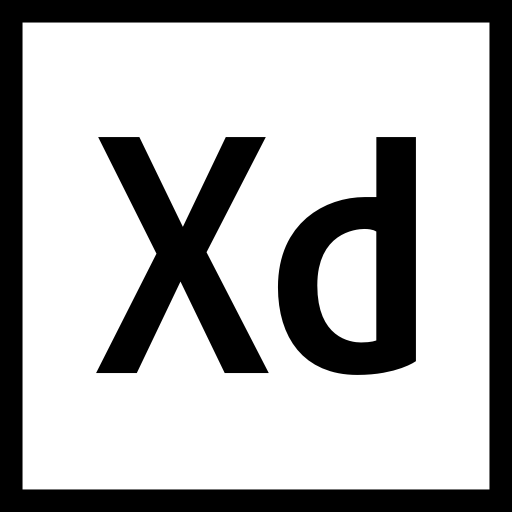
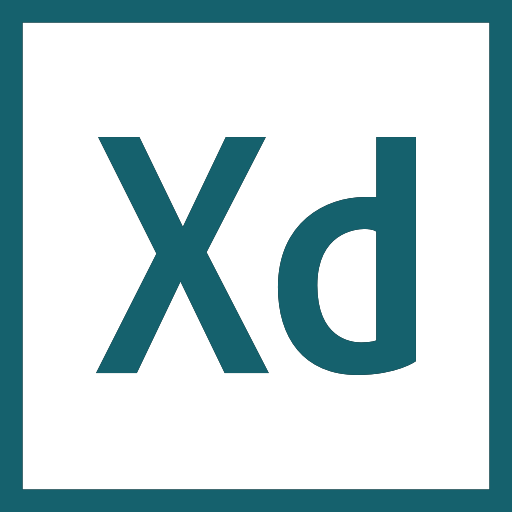
adding general color pallete

diff --git a/css/style.css b/css/style.css
@@ -3,13 +3,20 @@
     padding: 0;
     box-sizing: border-box;
 }
+:root{
+    --white: #fff;
+    --blue: #99c1b9;
+    --blue-shadow: rgba(156,156,156,0.55);
+    --blue-dark: #15616d;
+    --blue-hover: #99c1b9;
+    --orange-light: #f2d0a9;
+}
+
 body{
     display: block;
     overflow-x: hidden;
 }
 .container{
-    /* max-width: 1000px; */
-    /* width: 100%; */
     display: flex;
     flex-direction: column;
 }
@@ -17,10 +24,11 @@ body{
 /* header ------------------------------------------ --> */
 
 header{
-    padding: 20px;
+    padding: 15px;
     width: 100vw;
-    background-color: #99c1b9;
-    box-shadow: 0px 13px 17px -8px rgba(156,156,156,0.55);
+    /* background-color: #99c1b9; */
+    background-color: #ddb995a9;
+    box-shadow: 0px 13px 17px -8px rgba(255, 214, 187, 0.55);
     position: fixed;
 }
 .box-nav{
@@ -73,15 +81,10 @@ main{
     justify-content: center;
     align-items: center;
 }
-/* .home-greet, .home-figure{
-    
-} */
 .home-greet, .home-figure{
-    /* margin-top: 50px; */
     /* width: 400px; */
     max-width: 60vw;
     height: 300px;
-    /* background-color: burlywood; */
     font-family: 'Josefin Sans', sans-serif;
     font-size: 1rem;
     padding: 10px;
@@ -94,10 +97,10 @@ main{
     font-size: 1rem;
 }
 .home-greet h1{
-    font-size: 3rem;
+    font-size: 3em;
 }
 .home-greet p{
-    font-size: 1rem;
+    font-size: 1em;
 }
 .button-what-i-do{
     width: 120px;
@@ -105,8 +108,8 @@ main{
     margin-top: 10px;
     border: none;
     border-radius: 2px;
-    background-color: #f2d0a9;
-    color: #335d6b;
+    background-color: var(--orange-light);
+    color: #15616d;
     font-weight: bold;
 }
 .button-what-i-do:hover{
@@ -115,48 +118,46 @@ main{
     background-color: #99c1b9;
 }
 
-
 /* main - skills ----------------------------------------- --> */
 
 .skills{
-    width: 100vw;
-    height: 150vh;
-    background-color: rgb(201, 201, 201);
+    background-color: var(--white);
     display: flex;
-    flex-flow: column wrap;
     justify-content: center;
     align-items: center;
 }
 .skills-container{
     width: 80%;
     height: 100%;
-    background-color: rgb(131, 131, 131);
+    /* background-color: #f4f4f4; */
     display: flex;
     flex-flow: column;
     justify-content: center;
     align-items: center;
 }
 .skills-text{
-    width: 40%;
-    margin: auto;
-    margin-top: 10%;
-    background-color: rgb(211, 211, 211);
+    width: 50%;
+    text-align: center;
+    margin: 30px 0;
+    background-color: var(--white);
+    color: var(--blue-dark);
     text-align: center;
     font-family: 'Josefin Sans', sans-serif;
-    font-size: 1rem;
-}
-.skills-text h2{
     font-size: 2rem;
 }
+.skills-text h2{
+    font-size: 1em;
+}
 .skills-text p{
-    font-size: 1rem;
+    font-size: 0.6em;
     margin-top: 10%;
 }
 .skills-boxes{
     width: 65%;
-    height: auto;;
-    background-color: rgb(110, 110, 110);
-    margin-bottom: 10%;
+    /* width: 650px; */
+    height: auto;
+    background-color: var(--orange-light);
+    margin-bottom: 50px;
     display: flex;
     flex-flow: row wrap;
     justify-content: space-around;
@@ -164,17 +165,24 @@ main{
 .box-skill{
     width: 200px;
     height: 200px;
-    background-color: white;
+    background-color: var(--white);
+    border: 2px solid var(--orange-light);
     border-radius: 3px;
-    margin-top: 3%;
+    margin: 15px 10px 5px 10px;
     display: flex;
     justify-content: center;
     align-items: center;
 }
+.box-skill:hover{
+    background-color: var(--blue);
+    border: none;
+}
 .skill{
     width: 40%;
     height: 60%;
-    background-color: rgb(223, 223, 223);
+    /* width: 100px; */
+    /* height: 100px; */
+    /* background-color: cornflowerblue; */
     display: flex;
     flex-direction: column;
     justify-content: space-around;
@@ -182,6 +190,7 @@ main{
 }
 .skill .html5, .css, .js, .figma, .xd, .git{
     align-content: center;
+    color: var(--blue-dark);
     text-align: center;
     font-family: 'Josefin Sans', sans-serif;
     font-size: 1rem;
@@ -191,9 +200,9 @@ main{
 /* main - quote ----------------------------------------- --> */
 
 .quote{
-    width: 100vw;
-    height: 80vh;
-    background-color: rgb(139, 139, 139);
+    width: 100%;
+    height: 90vh;
+    background-color: var(--blue-dark);
     text-align: center;
     display: flex;
     justify-content: center;
@@ -202,21 +211,23 @@ main{
 .quote-icon-text{
     width: 60%;
     height: 60%;
-    background-color: rgb(219, 219, 219);
+    /* background-color: rgb(219, 219, 219); */
 }
 .quote-icon{
-    margin-top: 5%;
+    margin-top: 40px;
 }
 .quote-text{
-    margin-top: 4%;
+    margin-top: 15px;
+    color: var(--white);
     font-family: 'Josefin Sans', sans-serif;
-    font-size: 1.1rem;
+    font-size: 1.5em;
     font-weight: 400;
 }
 .author{
-    margin-top: 4%;
+    margin-top: 15px;
+    color: var(--white);
     font-family: 'Josefin Sans', sans-serif;
-    font-size: 1.5rem;
+    font-size: 1em;
 }
 
 /* main - project  ----------------------------------------- --> */
@@ -224,7 +235,7 @@ main{
 .projects{
     width: 100vw;
     height: 150vh;
-    background-color: rgb(192, 192, 192);
+    background-color: var(--white);
     display: flex;
     flex-flow: column wrap;
     justify-content: center;
@@ -232,8 +243,8 @@ main{
 }
 .projects-container{
     width: 80%;
-    height: 100%;
-    background-color: rgb(131, 131, 131);
+    height: 90%;
+    /* background-color: rgb(131, 131, 131); */
     display: flex;
     flex-flow: column;
     justify-content: center;

diff --git a/index.html b/index.html
@@ -60,7 +60,7 @@
                         <!-- aquí inician los articles skills-->
                         <article class="skills-text">
                             <h2 class="skills-title">My Skills</h2>
-                            <p class="skills-description">Lorem ipsum dolor sit amet consectetur adipisicing elit. Mollitia, dolorum eaque reiciendis, magnam voluptatibus iure repellendus.</p>
+                            <p class="skills-description">Currently I have knowledge in the following languages and programs, where I deepen through practice and curiosity.</p>
                         </article>
 
                         <article class="skills-boxes">

diff --git a/css/responsive.css b/css/responsive.css
@@ -1,13 +1,30 @@
 /* header ------------------------------------------ --> */
 
-/* minimum size */
+/* big size */
 @media(max-width: 1000px){
-    .home{
+    .home, .skills{
         flex-direction: column;
+        align-items: center;
         margin-top: 100px;
-    }
-    .home-greet{
         text-align: center;
-        /* margin: auto; */
+        /* font-size: 1rem; */
     }
+    .skills-boxes{
+        /* width: 50vw; */
+        width: 430px;
+    }
+    
+}
+
+/* medium size */
+@media(max-width: 600px){
+    .skills-boxes{
+        /* width: 60vw; */
+        width: 430px;
+    }
+}
+
+/* small size */
+@media(max-width: 320px){
+
 }
